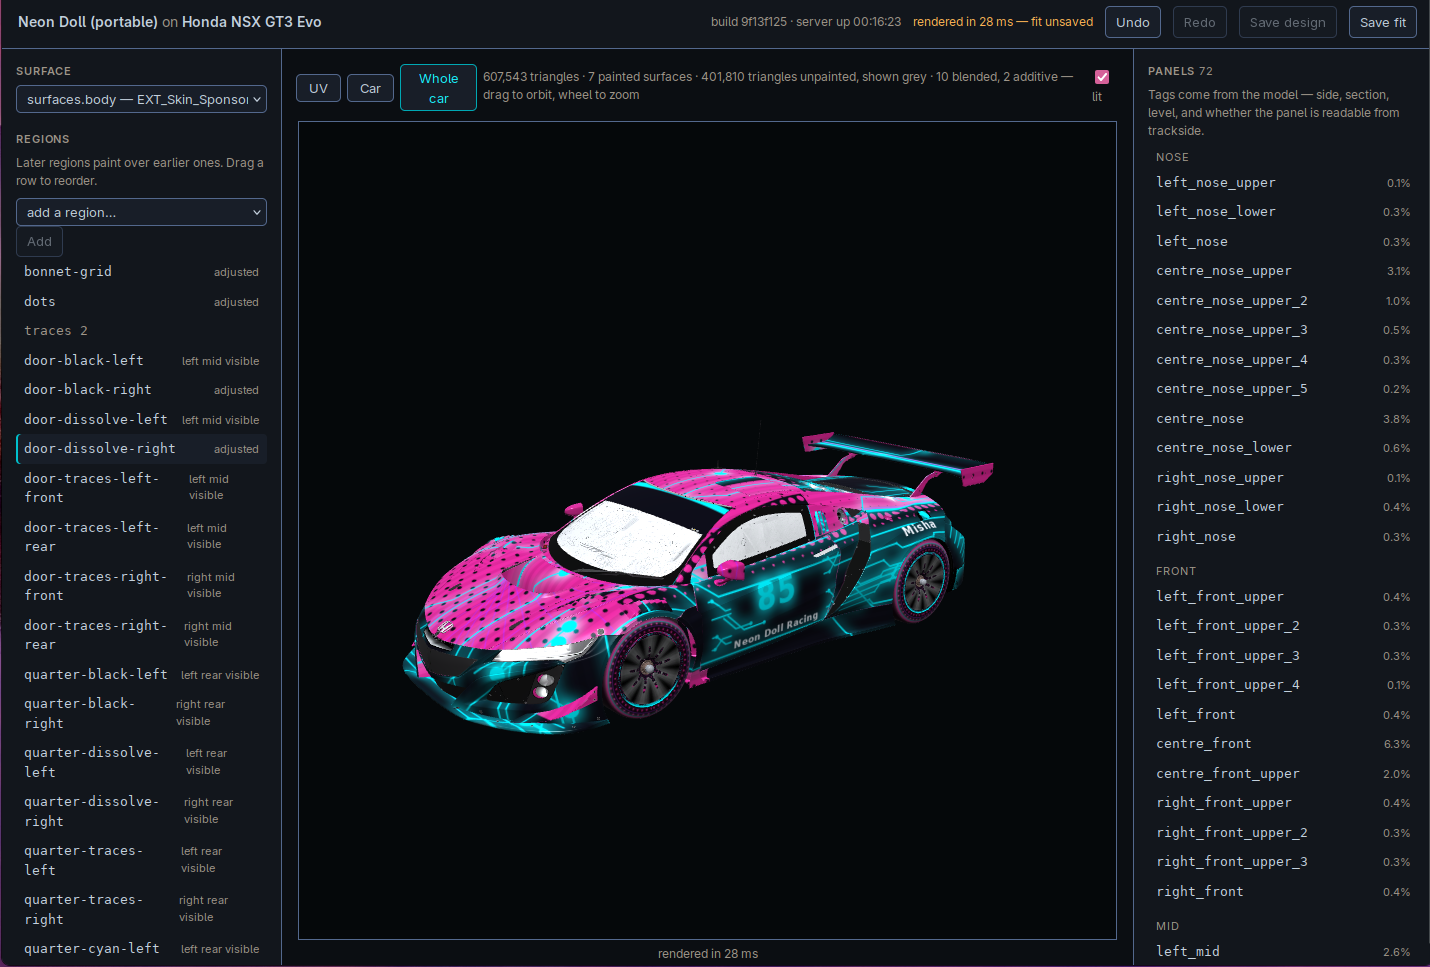
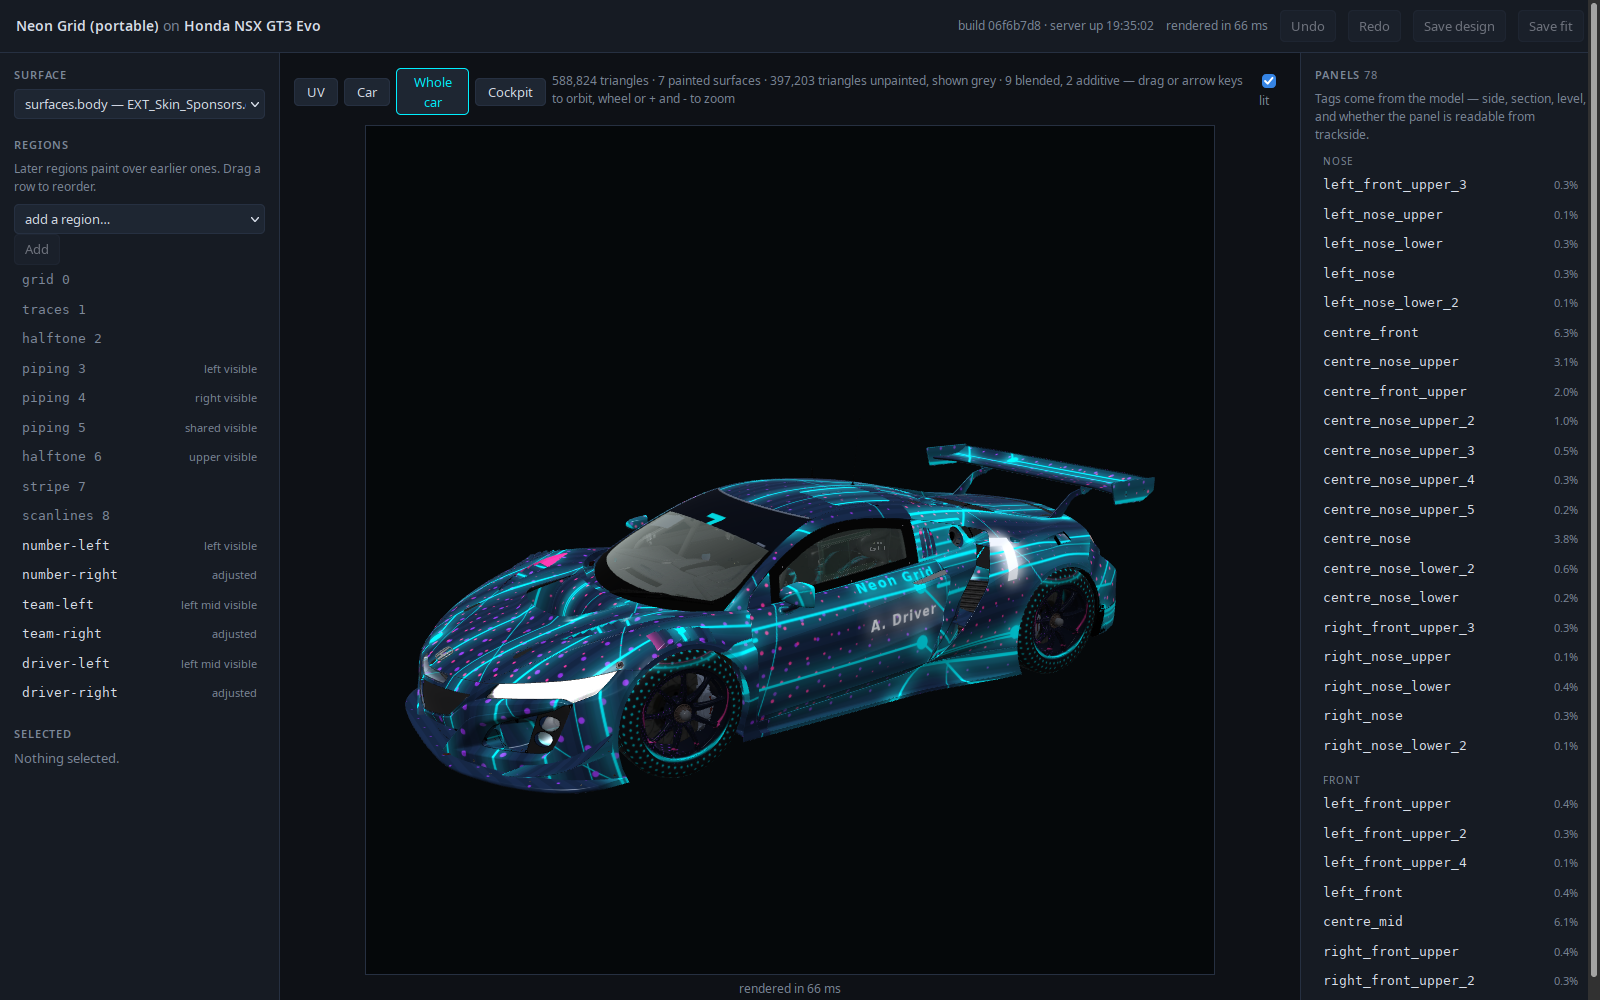
Take the README's editor picture from a script, and open the editor from a link
The README's picture was a hand-orbited screenshot of a private livery, so
nobody could regenerate it and it drifted from the editor. tools/screenshot.sh
takes it in a sealed shotbox session with the committed Neon Grid livery.

Steering the camera with the mouse or keyboard did not work there: the
sandbox draws in software GL at a second or more a frame, and input that
arrives during a frame lands late or not at all, so no two pictures turned
the car the same distance. The editor now reads its opening view and camera
from the link instead, `#view=all&yaw=1.0&pitch=0.25&zoom=0.85`, which
also makes a view something you can send someone.

The script waits on the view note's announcement, so the note is a status
region now; that also tells a screen reader when a view has finished
drawing. The view tabs say which is pressed, and the 3D view turns with the
arrow keys and zooms with + and -, which it could not do without a pointer.

diff --git a/src/ui/app.js b/src/ui/app.js
@@ -14,7 +14,7 @@
 
 // Relative, so the same specifier resolves in the browser (served alongside
 // app.js) and in Node, where the tests import this module directly.
-import { createViewer, unpack, unpackModel } from './view3d.js';
+import { createViewer, openingView, unpack, unpackModel } from './view3d.js';
 // The same split the server makes, from the same file, so the two cannot drift.
 import { treatmentOptions } from './fields.js';
 import { paletteUses, tokenUses, danglingNames, eachRegion, interpolates, isAColor } from './uses.js';
@@ -2964,7 +2964,7 @@ export function setHidden(el, on) {
   else el.removeAttribute('hidden');
 }
 
-async function showView(which) {
+async function showView(which, look) {
   // The offer belongs to the click that produced it. Left up across a view
   // change it would invite adopting a surface you can no longer see, from a
   // sentence about a car you have navigated away from.
@@ -2972,11 +2972,7 @@ async function showView(which) {
 
   state.view = which;
   const is3d = which === '3d' || which === 'all' || which === 'cockpit';
-  for (const [id, name] of [
-    ['#tab-uv', 'uv'], ['#tab-3d', '3d'], ['#tab-all', 'all'], ['#tab-cockpit', 'cockpit'],
-  ]) {
-    $(id).className = `tab${which === name ? ' on' : ''}`;
-  }
+  markTab(which);
   setHidden($('#texture'), is3d);
   setHidden($('#overlay'), is3d);
   setHidden($('#carview'), !is3d);
@@ -2997,6 +2993,7 @@ async function showView(which) {
     if (which === 'all') await loadWholeCar();
     else if (which === 'cockpit') await loadCockpit();
     else await loadCarGeometry();
+    if (look) state.viewer.look(look);
   } catch (e) {
     // No model is an ordinary situation, not a failure: plenty of people have a
     // profile for a car whose kn5 is not on this machine. Neither is a model
@@ -3009,10 +3006,16 @@ async function showView(which) {
     setHidden($('#texture'), false);
     setHidden($('#overlay'), false);
     state.view = 'uv';
-    $('#tab-uv').className = 'tab on';
-    $('#tab-3d').className = 'tab';
-    $('#tab-all').className = 'tab';
-    $('#tab-cockpit').className = 'tab';
+    markTab('uv');
+  }
+}
+
+function markTab(which) {
+  for (const [id, name] of [
+    ['#tab-uv', 'uv'], ['#tab-3d', '3d'], ['#tab-all', 'all'], ['#tab-cockpit', 'cockpit'],
+  ]) {
+    $(id).className = `tab${which === name ? ' on' : ''}`;
+    $(id).setAttribute('aria-pressed', String(which === name));
   }
 }
 
@@ -3132,7 +3135,7 @@ async function loadWholeCar() {
     (drew?.failed?.length ? ` · ${drew.failed.length} FAILED TO UPLOAD: ${
       drew.failed.join('; ')}` : '') +
     ` · ${drew?.blended ?? 0} blended, ${drew?.additive ?? 0} additive` +
-    ' — drag to orbit, wheel to zoom';
+    ' — drag or arrow keys to orbit, wheel or + and - to zoom';
 }
 
 /**
@@ -3401,15 +3404,16 @@ if (proposalTimer?.unref) proposalTimer.unref();
 //
 // After every declaration, so no helper can be reached before it exists.
 //
-// It opens on the CAR. That is where the work happens now — you can select,
-// move, resize and rotate there, and it is the only view that answers whether a
-// placement is any good. showView falls back to the UV sheet on its own if
+// It opens on the CAR, unless the link names another view. That is where the
+// work happens now — you can select, move, resize and rotate there, and it is
+// the only view that answers whether a placement is any good. showView falls back to the UV sheet on its own if
 // there is no model or no WebGL, so this is a preference rather than a demand.
 //
 // Not on a surface painted over the car's own texture: `paint` blocks resolve
 // first, so a livery that also paints the glass opened on a windscreen.
+const opening = openingView(window.location?.hash ?? '');
 await selectSurface((state.data.surfaces.find((s) => !s.overStock) ?? state.data.surfaces[0])?.from);
-await showView('3d');
+await showView(opening.view, opening.look);
 // Last, after the car is on screen, so a slow profile directory cannot delay
 // anything anybody is waiting for. It answers `undefined` rather than throwing
 // when there is nothing to list, because a second opinion is not a prerequisite

diff --git a/src/ui/view3d.js b/src/ui/view3d.js
@@ -710,6 +710,44 @@ function lightingFor(light) {
 /** Whether WebGL 1 will build a mip chain or wrap a REPEAT over this size. */
 const isPot = (n) => n > 0 && (n & (n - 1)) === 0;
 
+// Stop just short of the poles, where the up vector degenerates and the view
+// flips inside out.
+const clampPitch = (p) => Math.max(-1.5, Math.min(1.5, p));
+// One notch of the wheel, in or out.
+const zoomed = (dist, out) => Math.max(0.5, Math.min(40, dist * (1 + Math.sign(out) * 0.12)));
+
+/**
+ * The camera a key asks for, or null for a key that is not one: arrows turn it
+ * and + and - zoom, so the car can be looked round without a pointer.
+ */
+export function orbitKey(cam, key) {
+  switch (key) {
+    case 'ArrowLeft': return { yaw: cam.yaw + 0.1 };
+    case 'ArrowRight': return { yaw: cam.yaw - 0.1 };
+    case 'ArrowUp': return { pitch: clampPitch(cam.pitch + 0.1) };
+    case 'ArrowDown': return { pitch: clampPitch(cam.pitch - 0.1) };
+    case '+': case '=': return { dist: zoomed(cam.dist, -1) };
+    case '-': return { dist: zoomed(cam.dist, 1) };
+    default: return null;
+  }
+}
+
+/**
+ * The view and camera a link opens the editor on: `#view=all&yaw=-0.2&pitch=0.3&zoom=0.8`.
+ * A picture taken by pointing a mouse at the car is a different picture every
+ * time; one taken from a link is the same one.
+ */
+export function openingView(hash) {
+  const asked = new URLSearchParams(hash.replace(/^#/, ''));
+  const view = ['uv', '3d', 'all', 'cockpit'].includes(asked.get('view')) ? asked.get('view') : '3d';
+  const look = {};
+  for (const k of ['yaw', 'pitch', 'zoom']) {
+    const v = Number(asked.get(k) ?? NaN);
+    if (Number.isFinite(v)) look[k] = v;
+  }
+  return { view, look };
+}
+
 export function createViewer(canvas) {
   // NO ALPHA CHANNEL IN THE DRAWING BUFFER, which is a statement about the
   // canvas rather than about the car: this view is opaque, and what is behind
@@ -1616,6 +1654,11 @@ export function createViewer(canvas) {
      * a position to decide what camera you wanted.
      */
     setOrbit() { cam.mode = 'orbit'; draw(); },
+    /** Turns the camera, and moves it `zoom` times as far as framing put it. */
+    look({ yaw = cam.yaw, pitch = cam.pitch, zoom = 1 }) {
+      Object.assign(cam, { yaw, pitch: clampPitch(pitch), dist: cam.dist * zoom });
+      draw();
+    },
 
     /**
      * Switch to the cockpit camera: eye fixed at `eye` (the point the profile
@@ -1934,7 +1977,7 @@ export function createViewer(canvas) {
     },
 
     /**
-     * Drag to orbit, wheel to zoom — unless `claim` takes the gesture first.
+     * Drag or arrow keys to orbit, wheel or + and - to zoom — unless `claim` takes the gesture first.
      *
      * The camera cannot simply own every pointerdown once regions are draggable
      * on the car, and the decision needs the pick, which only the viewer can do.
@@ -1955,15 +1998,21 @@ export function createViewer(canvas) {
       canvas.onpointermove = (e) => {
         if (!dragging) return;
         cam.yaw = dragging.yaw - (e.clientX - dragging.x) * 0.008;
-        // Stop just short of the poles, where the up vector degenerates and the
-        // view flips inside out.
-        cam.pitch = Math.max(-1.5, Math.min(1.5, dragging.pitch + (e.clientY - dragging.y) * 0.008));
+        cam.pitch = clampPitch(dragging.pitch + (e.clientY - dragging.y) * 0.008);
         draw();
       };
       canvas.onpointerup = () => { dragging = null; };
       canvas.onwheel = (e) => {
         e.preventDefault();
-        cam.dist = Math.max(0.5, Math.min(40, cam.dist * (1 + Math.sign(e.deltaY) * 0.12)));
+        cam.dist = zoomed(cam.dist, e.deltaY);
+        draw();
+      };
+      canvas.tabIndex = 0;
+      canvas.onkeydown = (e) => {
+        const next = orbitKey(cam, e.key);
+        if (!next) return;
+        e.preventDefault();
+        Object.assign(cam, next);
         draw();
       };
       window.addEventListener('resize', draw);

diff --git a/src/ui/index.html b/src/ui/index.html
@@ -62,7 +62,7 @@
         <button id="tab-3d" class="tab">Car</button>
         <button id="tab-all" class="tab">Whole car</button>
         <button id="tab-cockpit" class="tab">Cockpit</button>
-        <span id="viewnote" class="hint"></span>
+        <span id="viewnote" class="hint" role="status"></span>
         <span id="adopt" class="hint" hidden>
           <span id="adoptwhat"></span>
           <button id="adoptsurface">Paint this too</button>
@@ -82,7 +82,7 @@
              gap for the same reason and gets the same fix. -->
         <div id="texture" hidden></div>
         <svg id="overlay" viewBox="0 0 1000 1000" preserveAspectRatio="none" hidden></svg>
-        <canvas id="carview" hidden></canvas>
+        <canvas id="carview" hidden aria-label="The car in 3D. Arrow keys turn it, and + and - zoom."></canvas>
       </div>
       <p class="hint" id="canvashint">
         Drag the highlighted box to move a region. Drag a corner to resize.

diff --git a/README.md b/README.md
@@ -4,7 +4,7 @@
 
 Generate [Assetto Corsa](https://www.assettocorsa.net/) car liveries from code.
 
-![The fitting editor: a Neon Doll livery on the Honda NSX GT3 Evo. Regions and the selected surface on the left, the lit 3D model in the middle, palette, identity and fit on the right.](docs/images/editor.png)
+![The fitting editor: the Neon Grid livery on the Honda NSX GT3 Evo. The surface and its regions on the left, the whole car lit in 3D in the middle, and the surface's panels on the right.](docs/images/editor.png)
 
 *The fitting editor: a design described as named regions over a palette, fitted onto the car's own model.*
 
